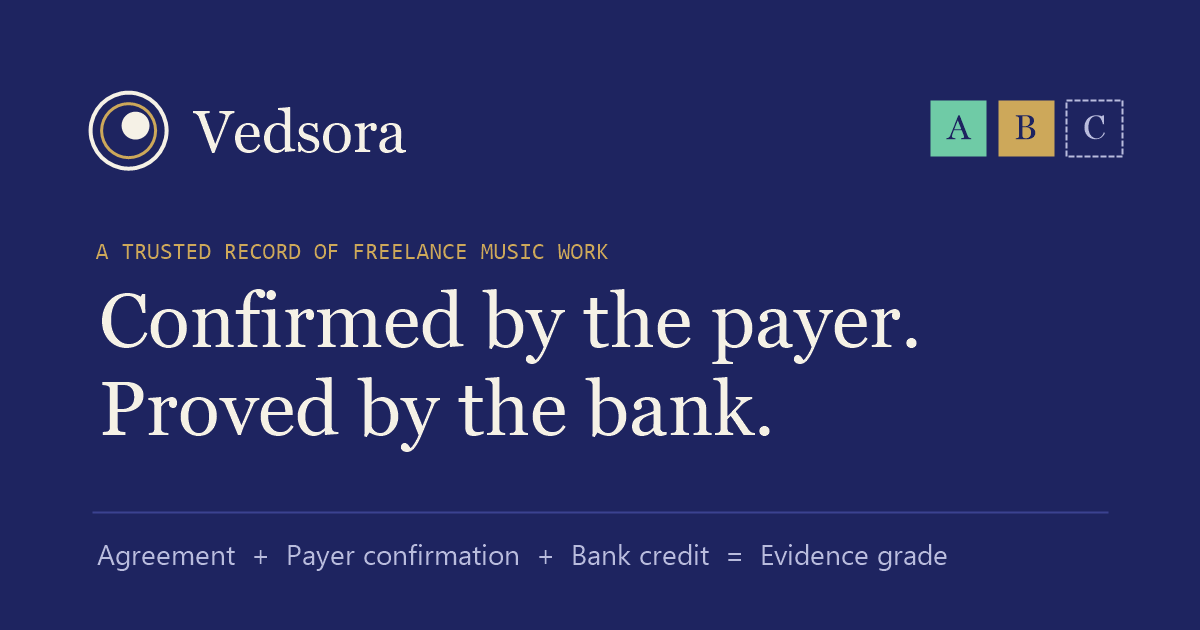
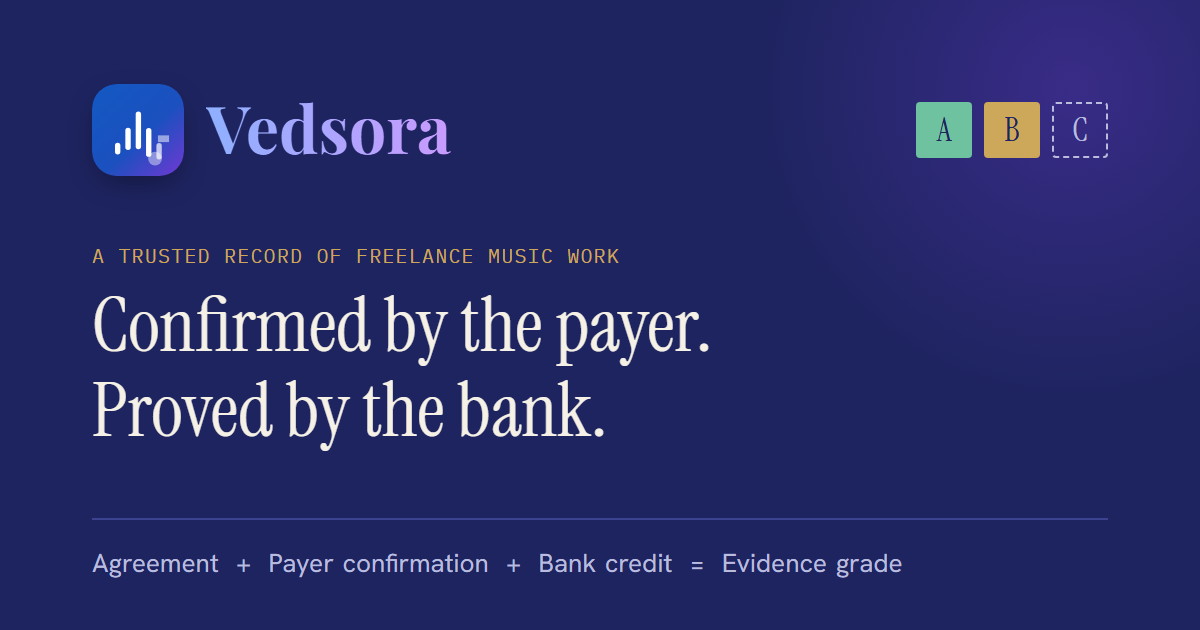
vedsingh

diff --git a/index.html b/index.html
@@ -8,6 +8,7 @@
 <link rel="canonical" href="https://www.vedsora.com/">
 <meta name="theme-color" content="#1E2460">
 <link rel="icon" href="assets/favicon.svg" type="image/svg+xml">
+<link rel="apple-touch-icon" href="assets/apple-touch-icon.png">
 <meta property="og:type" content="website">
 <meta property="og:site_name" content="Vedsora">
 <meta property="og:locale" content="en_GB">
@@ -29,7 +30,7 @@
   "name": "Vedsora",
   "legalName": "Vedsora Limited",
   "url": "https://www.vedsora.com/",
-  "logo": "https://www.vedsora.com/assets/favicon.svg",
+  "logo": "https://www.vedsora.com/assets/logo-512.png",
   "description": "A UK record-of-work platform for freelance musicians and the organisations that pay them.",
   "email": "info@vedsora.com",
   "telephone": "+44 7796 135634",
@@ -43,12 +44,13 @@
 <link rel="preconnect" href="https://fonts.googleapis.com">
 <link rel="preconnect" href="https://fonts.gstatic.com" crossorigin>
 <link rel="stylesheet" href="https://fonts.googleapis.com/css2?family=Instrument+Serif:ital@0;1&family=Hanken+Grotesk:wght@400;500;600;700&family=IBM+Plex+Mono:wght@400;500&display=swap">
+<link rel="stylesheet" href="https://fonts.googleapis.com/css2?family=Playfair+Display:wght@700&amp;text=Vedsora&amp;display=swap">
 <link rel="stylesheet" href="styles.css">
 </head>
 <body>
 <a class="skip" href="#main">Skip to content</a>
 <header class="hdr"><div class="wrap"><div class="hdr-in">
-<a class="logo" href="#home" aria-label="Vedsora home"><svg viewBox="0 0 32 32" aria-hidden="true"><circle cx="16" cy="16" r="14.5" fill="none" stroke="currentColor" stroke-width="1.6"></circle><circle cx="16" cy="16" r="10.5" fill="none" stroke="var(--brass)" stroke-width="1.2"></circle><circle cx="18.5" cy="14.5" r="5" fill="currentColor"></circle></svg>Vedsora</a>
+<a class="logo" href="#home" aria-label="Vedsora home"><img class="logo-mark" src="assets/logo-mark.svg" alt="" width="34" height="34"><span class="wordmark">Vedsora</span></a>
 <nav class="nav" aria-label="Main"><a href="#why">Why Vedsora</a><a href="#how">How it works</a><a href="#organisations">Organisers</a><a href="#musicians">Musicians</a><a href="#accountants">Accountants</a><a href="#innovation">Innovation</a><a href="#founder">Founder</a><a href="#roadmap">Roadmap</a><a href="#about">About</a></nav>
 <a class="btn sm" href="#contact">Contact</a>
 <button type="button" class="menu-btn" id="menu-btn" aria-expanded="false" aria-controls="mnav">Menu</button>
@@ -816,7 +818,7 @@
 
 <footer><div class="wrap stack-l">
   <div class="grid g4">
-    <div class="stack"><a class="logo" href="#home">Vedsora</a><p class="muted small">A trusted record of freelance music work.</p></div>
+    <div class="stack"><a class="logo" href="#home" aria-label="Vedsora home"><img class="logo-mark" src="assets/logo-mark.svg" alt="" width="34" height="34"><span class="wordmark">Vedsora</span></a><p class="muted small">A trusted record of freelance music work.</p></div>
     <div><h4>Explore</h4><ul><li><a href="#why">Why Vedsora</a></li><li><a href="#how">How it works</a></li><li><a href="#innovation">Innovation</a></li><li><a href="#roadmap">Roadmap</a></li><li><a href="#founder">Founder</a></li><li><a href="#about">About</a></li></ul></div>
     <div><h4>Product</h4><ul><li><a href="#musicians">Musician Ledger</a></li><li><a href="#organisations">Organiser Payment Schedule</a></li><li><a href="#accountants">Accountant Pack</a></li></ul><h4 class="mt">Legal</h4><ul><li><a href="#privacy">Privacy</a></li><li><a href="#terms">Terms</a></li><li><a href="#safeguarding">Safeguarding</a></li><li><a href="#data-protection">Data protection</a></li></ul></div>
     <div><h4>Contact</h4><ul><li><a href="mailto:info@vedsora.com">info@vedsora.com</a></li><li><a href="tel:+447796135634">07796 135634</a></li><li><a class="ig-link" href="https://www.instagram.com/vedsora?mdxt=NGNlcDdqZnV0cWw2&amp;utm_source=qr" target="_blank" rel="noopener noreferrer" aria-label="Vedsora on Instagram, @vedsora (opens in a new tab)"><svg class="ig" viewBox="0 0 24 24" width="16" height="16" aria-hidden="true" focusable="false"><rect x="3" y="3" width="18" height="18" rx="5" fill="none" stroke="currentColor" stroke-width="1.8"/><circle cx="12" cy="12" r="4.2" fill="none" stroke="currentColor" stroke-width="1.8"/><circle cx="17.4" cy="6.6" r="1.2" fill="currentColor"/></svg><span>@vedsora</span></a></li><li class="muted">128 City Road, London<br>United Kingdom, EC1V 2NX</li></ul></div>

diff --git a/vedsora-website/index.html b/vedsora-website/index.html
@@ -8,6 +8,7 @@
 <link rel="canonical" href="https://www.vedsora.com/">
 <meta name="theme-color" content="#1E2460">
 <link rel="icon" href="assets/favicon.svg" type="image/svg+xml">
+<link rel="apple-touch-icon" href="assets/apple-touch-icon.png">
 <meta property="og:type" content="website">
 <meta property="og:site_name" content="Vedsora">
 <meta property="og:locale" content="en_GB">
@@ -29,7 +30,7 @@
   "name": "Vedsora",
   "legalName": "Vedsora Limited",
   "url": "https://www.vedsora.com/",
-  "logo": "https://www.vedsora.com/assets/favicon.svg",
+  "logo": "https://www.vedsora.com/assets/logo-512.png",
   "description": "A UK record-of-work platform for freelance musicians and the organisations that pay them.",
   "email": "info@vedsora.com",
   "telephone": "+44 7796 135634",
@@ -43,12 +44,13 @@
 <link rel="preconnect" href="https://fonts.googleapis.com">
 <link rel="preconnect" href="https://fonts.gstatic.com" crossorigin>
 <link rel="stylesheet" href="https://fonts.googleapis.com/css2?family=Instrument+Serif:ital@0;1&family=Hanken+Grotesk:wght@400;500;600;700&family=IBM+Plex+Mono:wght@400;500&display=swap">
+<link rel="stylesheet" href="https://fonts.googleapis.com/css2?family=Playfair+Display:wght@700&amp;text=Vedsora&amp;display=swap">
 <link rel="stylesheet" href="styles.css">
 </head>
 <body>
 <a class="skip" href="#main">Skip to content</a>
 <header class="hdr"><div class="wrap"><div class="hdr-in">
-<a class="logo" href="#home" aria-label="Vedsora home"><svg viewBox="0 0 32 32" aria-hidden="true"><circle cx="16" cy="16" r="14.5" fill="none" stroke="currentColor" stroke-width="1.6"></circle><circle cx="16" cy="16" r="10.5" fill="none" stroke="var(--brass)" stroke-width="1.2"></circle><circle cx="18.5" cy="14.5" r="5" fill="currentColor"></circle></svg>Vedsora</a>
+<a class="logo" href="#home" aria-label="Vedsora home"><img class="logo-mark" src="assets/logo-mark.svg" alt="" width="34" height="34"><span class="wordmark">Vedsora</span></a>
 <nav class="nav" aria-label="Main"><a href="#why">Why Vedsora</a><a href="#how">How it works</a><a href="#organisations">Organisers</a><a href="#musicians">Musicians</a><a href="#accountants">Accountants</a><a href="#innovation">Innovation</a><a href="#founder">Founder</a><a href="#roadmap">Roadmap</a><a href="#about">About</a></nav>
 <a class="btn sm" href="#contact">Contact</a>
 <button type="button" class="menu-btn" id="menu-btn" aria-expanded="false" aria-controls="mnav">Menu</button>
@@ -816,7 +818,7 @@
 
 <footer><div class="wrap stack-l">
   <div class="grid g4">
-    <div class="stack"><a class="logo" href="#home">Vedsora</a><p class="muted small">A trusted record of freelance music work.</p></div>
+    <div class="stack"><a class="logo" href="#home" aria-label="Vedsora home"><img class="logo-mark" src="assets/logo-mark.svg" alt="" width="34" height="34"><span class="wordmark">Vedsora</span></a><p class="muted small">A trusted record of freelance music work.</p></div>
     <div><h4>Explore</h4><ul><li><a href="#why">Why Vedsora</a></li><li><a href="#how">How it works</a></li><li><a href="#innovation">Innovation</a></li><li><a href="#roadmap">Roadmap</a></li><li><a href="#founder">Founder</a></li><li><a href="#about">About</a></li></ul></div>
     <div><h4>Product</h4><ul><li><a href="#musicians">Musician Ledger</a></li><li><a href="#organisations">Organiser Payment Schedule</a></li><li><a href="#accountants">Accountant Pack</a></li></ul><h4 class="mt">Legal</h4><ul><li><a href="#privacy">Privacy</a></li><li><a href="#terms">Terms</a></li><li><a href="#safeguarding">Safeguarding</a></li><li><a href="#data-protection">Data protection</a></li></ul></div>
     <div><h4>Contact</h4><ul><li><a href="mailto:info@vedsora.com">info@vedsora.com</a></li><li><a href="tel:+447796135634">07796 135634</a></li><li><a class="ig-link" href="https://www.instagram.com/vedsora?mdxt=NGNlcDdqZnV0cWw2&amp;utm_source=qr" target="_blank" rel="noopener noreferrer" aria-label="Vedsora on Instagram, @vedsora (opens in a new tab)"><svg class="ig" viewBox="0 0 24 24" width="16" height="16" aria-hidden="true" focusable="false"><rect x="3" y="3" width="18" height="18" rx="5" fill="none" stroke="currentColor" stroke-width="1.8"/><circle cx="12" cy="12" r="4.2" fill="none" stroke="currentColor" stroke-width="1.8"/><circle cx="17.4" cy="6.6" r="1.2" fill="currentColor"/></svg><span>@vedsora</span></a></li><li class="muted">128 City Road, London<br>United Kingdom, EC1V 2NX</li></ul></div>

diff --git a/styles.css b/styles.css
@@ -8,7 +8,7 @@ img{max-width:100%}
 /* Layout concept: an editorial ledger. Wide ivory pages, serif statements on the left, mono "record" cards on the right; one indigo band per page carries the record layer. */
 :root{
   --bg:#F5F1E6; --paper:#FCFAF4; --ink:#1D1E26; --muted:#5C5D69; --line:#DBD4C1;
-  --indigo:#232A6B; --indigo-soft:#E6E6F1; --brass:#B08A3A; --brass-ink:#76570F;
+  --indigo:#232A6B; --indigo-soft:#E6E6F1; --logo-a:#1B51BA; --logo-b:#8F34E9; --brass:#B08A3A; --brass-ink:#76570F;
   --band:#1E2460; --band-ink:#F5F1E6; --band-muted:#B9BCDD; --band-line:#3B4290; --band-card:#272E78;
   --ok:#1F6B4F; --err:#A4342A;
   --display:"Instrument Serif","Iowan Old Style",Georgia,serif;
@@ -17,12 +17,12 @@ img{max-width:100%}
 }
 @media (prefers-color-scheme: dark){ :root:not([data-theme="light"]){
   --bg:#15161D; --paper:#1D1F29; --ink:#F1EDE1; --muted:#A9AAB8; --line:#343645;
-  --indigo:#AEB4F2; --indigo-soft:#262A4A; --brass:#CDA85A; --brass-ink:#DDBB72;
+  --indigo:#AEB4F2; --indigo-soft:#262A4A; --logo-a:#7EA2FF; --logo-b:#C08BFF; --brass:#CDA85A; --brass-ink:#DDBB72;
   --band:#1A1F55; --band-ink:#F1EDE1; --band-muted:#B3B7DC; --band-line:#3A418C; --band-card:#232A6E;
   --ok:#6FCBA6; --err:#F09A8C; color-scheme:dark } }
 :root[data-theme="dark"]{
   --bg:#15161D; --paper:#1D1F29; --ink:#F1EDE1; --muted:#A9AAB8; --line:#343645;
-  --indigo:#AEB4F2; --indigo-soft:#262A4A; --brass:#CDA85A; --brass-ink:#DDBB72;
+  --indigo:#AEB4F2; --indigo-soft:#262A4A; --logo-a:#7EA2FF; --logo-b:#C08BFF; --brass:#CDA85A; --brass-ink:#DDBB72;
   --band:#1A1F55; --band-ink:#F1EDE1; --band-muted:#B3B7DC; --band-line:#3A418C; --band-card:#232A6E;
   --ok:#6FCBA6; --err:#F09A8C; color-scheme:dark }
 *{box-sizing:border-box}
@@ -61,8 +61,15 @@ section.tight{padding-block:clamp(36px,6vw,64px)}
 /* header */
 .hdr{position:sticky;top:env(safe-area-inset-top,0px);z-index:20;background:color-mix(in srgb,var(--bg) 92%,transparent);backdrop-filter:blur(10px);border-bottom:1px solid var(--line)}
 .hdr-in{display:flex;align-items:center;justify-content:space-between;gap:16px;min-height:64px}
-.logo{display:flex;align-items:center;gap:10px;text-decoration:none;font-family:var(--display);font-size:1.7rem;line-height:1}
-.logo svg{width:28px;height:28px;flex:none}
+.logo{display:inline-flex;align-items:center;gap:10px;text-decoration:none;line-height:1}
+.logo-mark{width:34px;height:34px;flex:none;border-radius:9px;box-shadow:0 1px 2px rgb(20 40 110 / .18),0 4px 12px -4px rgb(40 60 190 / .35)}
+.wordmark{font-family:"Playfair Display",var(--display);font-weight:700;font-size:1.6rem;letter-spacing:-.005em;line-height:1;padding-bottom:.08em;color:var(--logo-a)}
+@supports ((-webkit-background-clip:text) or (background-clip:text)){
+  .wordmark{background:linear-gradient(90deg,var(--logo-a),var(--logo-b));-webkit-background-clip:text;background-clip:text;color:transparent}
+}
+footer .logo{align-self:flex-start}
+footer .logo-mark{width:30px;height:30px;border-radius:8px}
+footer .wordmark{font-size:1.4rem}
 .nav{display:none;gap:2px;align-items:center}
 .nav a{font-size:.88rem;font-weight:500;text-decoration:none;padding:8px 9px;border-radius:6px;color:var(--muted);white-space:nowrap}
 .nav a:hover,.nav a[aria-current="page"]{color:var(--ink)}

diff --git a/vedsora-website/styles.css b/vedsora-website/styles.css
@@ -8,7 +8,7 @@ img{max-width:100%}
 /* Layout concept: an editorial ledger. Wide ivory pages, serif statements on the left, mono "record" cards on the right; one indigo band per page carries the record layer. */
 :root{
   --bg:#F5F1E6; --paper:#FCFAF4; --ink:#1D1E26; --muted:#5C5D69; --line:#DBD4C1;
-  --indigo:#232A6B; --indigo-soft:#E6E6F1; --brass:#B08A3A; --brass-ink:#76570F;
+  --indigo:#232A6B; --indigo-soft:#E6E6F1; --logo-a:#1B51BA; --logo-b:#8F34E9; --brass:#B08A3A; --brass-ink:#76570F;
   --band:#1E2460; --band-ink:#F5F1E6; --band-muted:#B9BCDD; --band-line:#3B4290; --band-card:#272E78;
   --ok:#1F6B4F; --err:#A4342A;
   --display:"Instrument Serif","Iowan Old Style",Georgia,serif;
@@ -17,12 +17,12 @@ img{max-width:100%}
 }
 @media (prefers-color-scheme: dark){ :root:not([data-theme="light"]){
   --bg:#15161D; --paper:#1D1F29; --ink:#F1EDE1; --muted:#A9AAB8; --line:#343645;
-  --indigo:#AEB4F2; --indigo-soft:#262A4A; --brass:#CDA85A; --brass-ink:#DDBB72;
+  --indigo:#AEB4F2; --indigo-soft:#262A4A; --logo-a:#7EA2FF; --logo-b:#C08BFF; --brass:#CDA85A; --brass-ink:#DDBB72;
   --band:#1A1F55; --band-ink:#F1EDE1; --band-muted:#B3B7DC; --band-line:#3A418C; --band-card:#232A6E;
   --ok:#6FCBA6; --err:#F09A8C; color-scheme:dark } }
 :root[data-theme="dark"]{
   --bg:#15161D; --paper:#1D1F29; --ink:#F1EDE1; --muted:#A9AAB8; --line:#343645;
-  --indigo:#AEB4F2; --indigo-soft:#262A4A; --brass:#CDA85A; --brass-ink:#DDBB72;
+  --indigo:#AEB4F2; --indigo-soft:#262A4A; --logo-a:#7EA2FF; --logo-b:#C08BFF; --brass:#CDA85A; --brass-ink:#DDBB72;
   --band:#1A1F55; --band-ink:#F1EDE1; --band-muted:#B3B7DC; --band-line:#3A418C; --band-card:#232A6E;
   --ok:#6FCBA6; --err:#F09A8C; color-scheme:dark }
 *{box-sizing:border-box}
@@ -61,8 +61,15 @@ section.tight{padding-block:clamp(36px,6vw,64px)}
 /* header */
 .hdr{position:sticky;top:env(safe-area-inset-top,0px);z-index:20;background:color-mix(in srgb,var(--bg) 92%,transparent);backdrop-filter:blur(10px);border-bottom:1px solid var(--line)}
 .hdr-in{display:flex;align-items:center;justify-content:space-between;gap:16px;min-height:64px}
-.logo{display:flex;align-items:center;gap:10px;text-decoration:none;font-family:var(--display);font-size:1.7rem;line-height:1}
-.logo svg{width:28px;height:28px;flex:none}
+.logo{display:inline-flex;align-items:center;gap:10px;text-decoration:none;line-height:1}
+.logo-mark{width:34px;height:34px;flex:none;border-radius:9px;box-shadow:0 1px 2px rgb(20 40 110 / .18),0 4px 12px -4px rgb(40 60 190 / .35)}
+.wordmark{font-family:"Playfair Display",var(--display);font-weight:700;font-size:1.6rem;letter-spacing:-.005em;line-height:1;padding-bottom:.08em;color:var(--logo-a)}
+@supports ((-webkit-background-clip:text) or (background-clip:text)){
+  .wordmark{background:linear-gradient(90deg,var(--logo-a),var(--logo-b));-webkit-background-clip:text;background-clip:text;color:transparent}
+}
+footer .logo{align-self:flex-start}
+footer .logo-mark{width:30px;height:30px;border-radius:8px}
+footer .wordmark{font-size:1.4rem}
 .nav{display:none;gap:2px;align-items:center}
 .nav a{font-size:.88rem;font-weight:500;text-decoration:none;padding:8px 9px;border-radius:6px;color:var(--muted);white-space:nowrap}
 .nav a:hover,.nav a[aria-current="page"]{color:var(--ink)}
